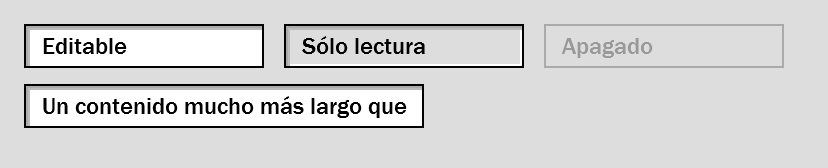
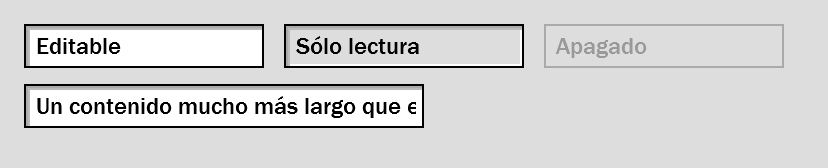
Pega al filo la barra del área de texto
El relleno del campo se aplicaba como margen del visor entero, así que empujaba
hacia adentro también la barra de desplazamiento y la dejaba separada del marco.
Medido: sobraban tres unidades entre la barra y el filo.

Ahora el relleno va dentro del visor, que es como lo resuelve la plantilla de
fábrica de WPF: el texto se despega del marco y la barra se pega a él. Entre la
barra y el filo queda solo la línea de realce del pozo, de un píxel, que es parte
del marco hundido.

Efecto lateral revisado en las imágenes aprobadas: en un campo de una línea, el
texto que se desborda gana esas tres unidades antes de recortarse. Se acepta
porque es el comportamiento del propio marco de trabajo.

La pestaña de notas de la galería pasa a alto fijo, como el cuadro del modelo,
para que la barra se vea siempre.

diff --git a/src/MacOS9.Platinum.Gallery/MainWindow.xaml b/src/MacOS9.Platinum.Gallery/MainWindow.xaml
@@ -155,11 +155,18 @@
                         <TextBlock DockPanel.Dock="Top" Text="Operator notes for this run"
                                    Margin="0,0,0,6" />
                         <!-- Área de texto: varias líneas, el texto arranca arriba y la
-                             barra aparece sola cuando el contenido no cabe. -->
-                        <TextBox AcceptsReturn="True"
+                             barra aparece sola cuando el contenido no cabe. De alto
+                             fijo, como el cuadro de notas del modelo. -->
+                        <TextBox DockPanel.Dock="Top"
+                                 Height="150"
+                                 AcceptsReturn="True"
                                  TextWrapping="Wrap"
                                  VerticalScrollBarVisibility="Auto"
-                                 Text="Chamber purged twice before the run. The 403 nm manganese line came in weak again, same as last week; worth checking the lamp alignment before trusting the manganese numbers.&#x0a;&#x0a;Iron saturated at 372 nm, as expected for this alloy." />
+                                 Text="Chamber purged twice before the run. The 403 nm manganese line came in weak again, same as last week; worth checking the lamp alignment before trusting the manganese numbers.&#x0a;&#x0a;Iron saturated at 372 nm, as expected for this alloy. The chromium pair at 267 and 283 nm agreed within 2 percent, so the calibration from Tuesday still holds.&#x0a;&#x0a;Nickel at 352 nm fell below the detection limit. That line is always marginal on this grating; the 341 nm line is the one to quote.&#x0a;&#x0a;Lamp has 340 hours on it. Replacement is due before the next batch of aluminium standards." />
+
+                        <TextBlock DockPanel.Dock="Top" Margin="0,10,0,0"
+                                   Text="Notes travel with the run and end up in the exported report." />
+                        <TextBlock />
                     </DockPanel>
                 </TabItem>
 

diff --git a/src/MacOS9.Platinum/Themes/TextBox.xaml b/src/MacOS9.Platinum/Themes/TextBox.xaml
@@ -44,8 +44,13 @@
                             <!-- Las barras salen de las propiedades del control, no
                                  fijas aquí: un campo de varias líneas necesita la
                                  suya, y quien la pide es quien lo usa. -->
+                            <!-- El relleno va DENTRO del visor, no como margen del
+                                 visor entero: como margen empujaba también la barra
+                                 de desplazamiento hacia adentro y quedaba separada
+                                 del filo. Así el texto se despega del marco y la
+                                 barra se pega a él. -->
                             <ScrollViewer x:Name="PART_ContentHost"
-                                          Margin="{TemplateBinding Padding}"
+                                          Padding="{TemplateBinding Padding}"
                                           VerticalAlignment="{TemplateBinding VerticalContentAlignment}"
                                           Focusable="False"
                                           HorizontalScrollBarVisibility="{TemplateBinding ScrollViewer.HorizontalScrollBarVisibility}"
